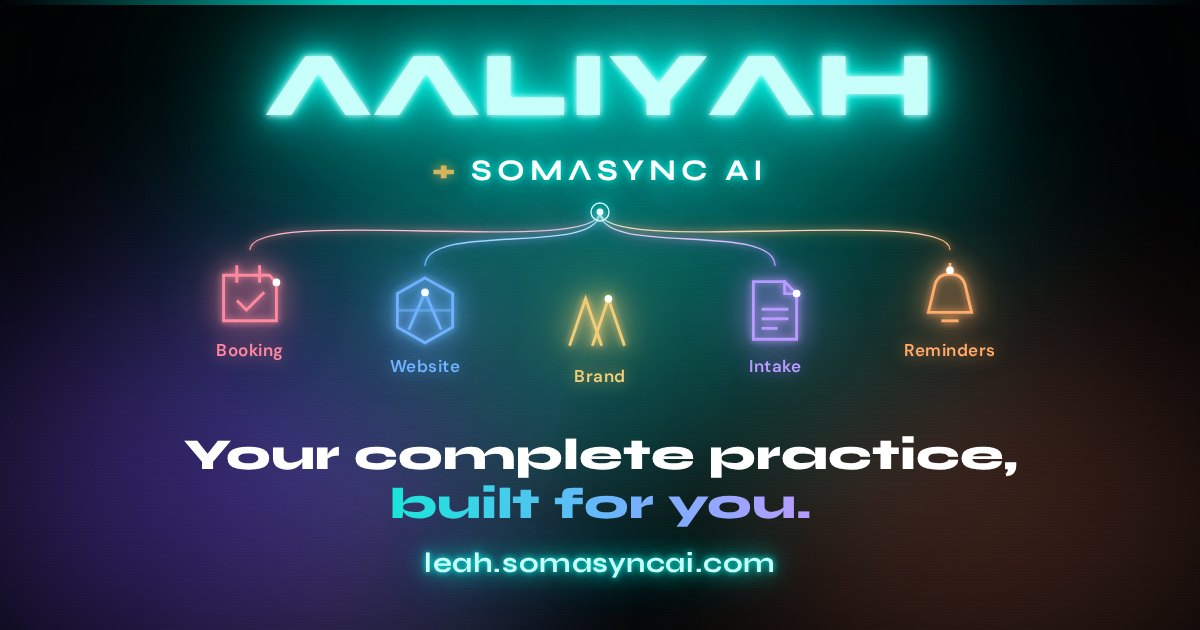
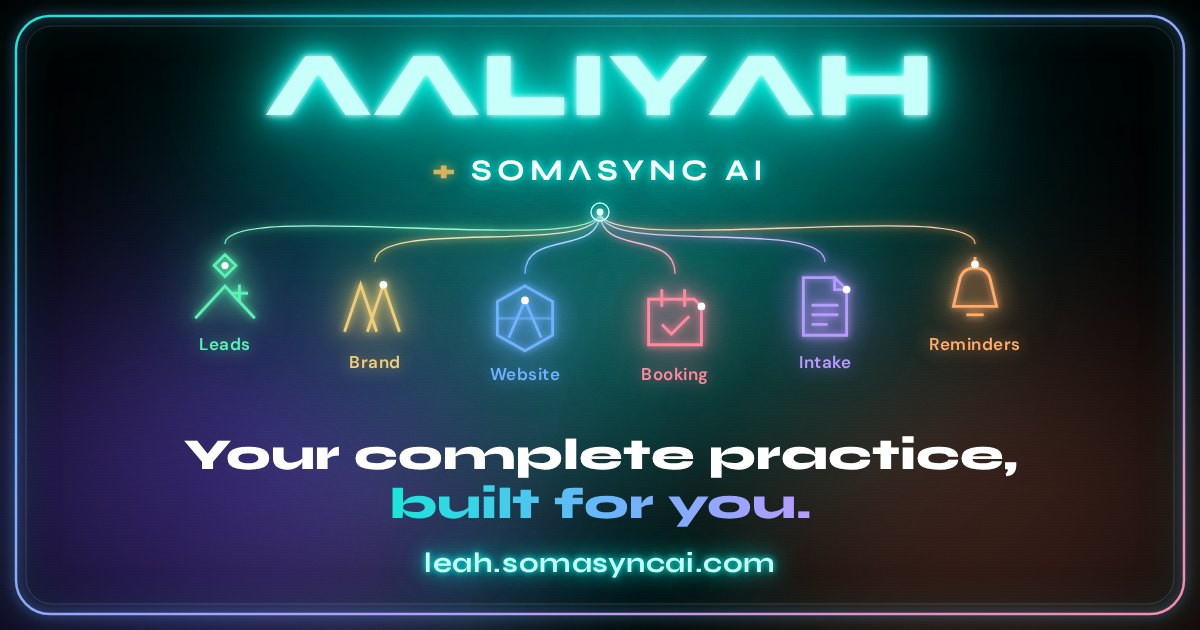
Share preview: gradient border and Leads tool

Changed region(s): [[0.0, 0.0, 1.0, 0.9952], [0.1542, 0.3317, 0.8633, 0.6333]]

diff --git a/index.html b/index.html
@@ -16,7 +16,7 @@
   <meta property="og:image" content="https://leah.somasyncai.com/og-launch-preview.jpg">
   <meta property="og:image:width" content="1200">
   <meta property="og:image:height" content="630">
-  <meta property="og:image:alt" content="Your complete practice, built for you. Leah + SomaSync AI: logo, website, online booking, intake and reminders for massage therapists.">
+  <meta property="og:image:alt" content="Your complete practice, built for you. Leah + SomaSync AI: leads, brand, website, online booking, intake and reminders for massage therapists.">
   <meta name="twitter:card" content="summary_large_image">
   <meta name="twitter:title" content="Massage Practice Websites &amp; Systems | Leah + SomaSync AI">
   <meta name="twitter:description" content="Leah and SomaSync AI build one branded system around you: logo, website, online booking, intake and reminders. Launch $175 · Growth $225 · Complete $300, one time.">
